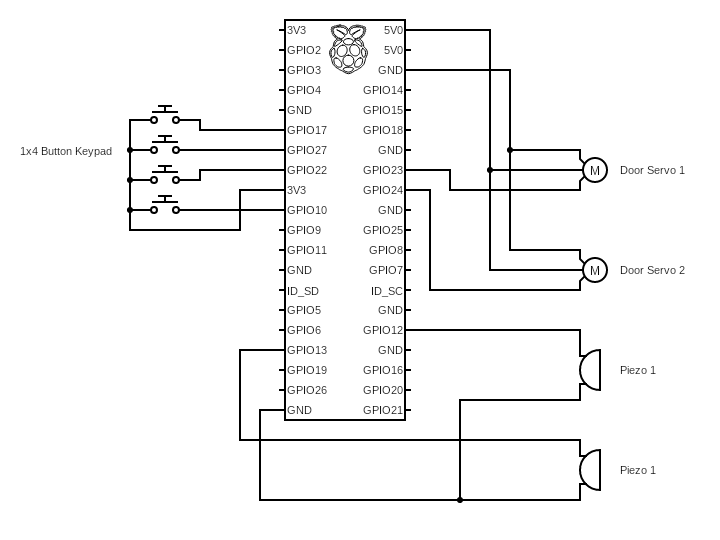
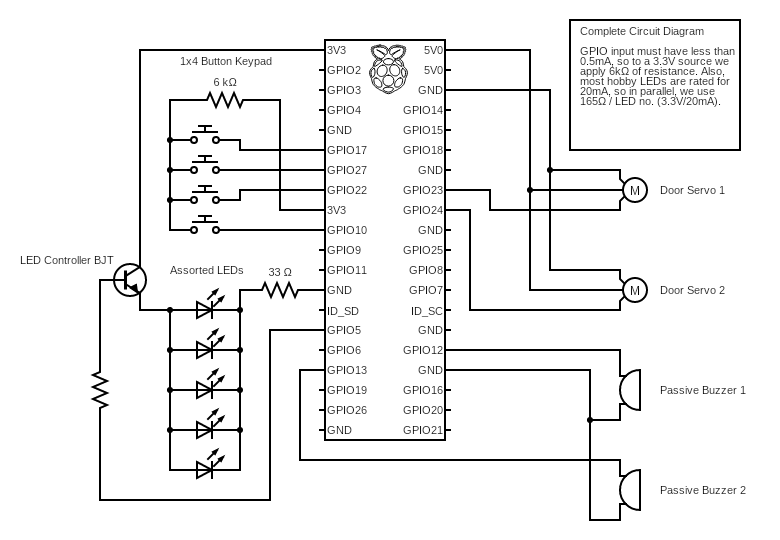
updated CD

diff --git a/README.md b/README.md
@@ -9,6 +9,11 @@ Press `Ctrl+D` to reset, and `Ctrl+C` to exit.
 - 1 x 1x4 keypad, such as the [Adafruit 1332](https://www.adafruit.com/product/1332)
 - 2 x 5v micro servo
 - 2 x Passive buzzer (piezo)
+- 5 x LED (20mA)
+- Resistors to make up the following resistances:
+  - 6kΩ
+  - 1kΩ
+  - 33Ω
 
 ## Circuit Diagram
 ![Circuit Diagram](circuit.png)
@@ -19,7 +24,7 @@ Configurable in `config.py`, here are the default values:
 
 |             | |        HEADER | PIN | DIAGRAM         | |             |
 |:------------|-|--------------:|:---:|:----------------|-|------------:|
-|             | |         `3V3` |     | `5V`            | | servo power |
+| led power   | |         `3V3` |     | `5V`            | | servo power |
 |             | |     `2 (SDA)` |     | `5V`            | |             |
 |             | |     `3 (SCL)` |     | `GND`           | | servo gnd   |
 |             | |  `4 (GPCLK0)` |     | `14 (TXD)`      | |             |
@@ -31,14 +36,14 @@ Configurable in `config.py`, here are the default values:
 | combo btn 4 | |   `10 (MOSI)` |     | `GND`           | |             |
 |             | |    `9 (MISO)` |     | `25`            | |             |
 |             | |   `11 (SCLK)` |     | `8 (CE0)`       | |             |
-|             | |         `GND` |     | `7 (CE1)`       | |             |
+| led gnd     | |         `GND` |     | `7 (CE1)`       | |             |
 |             | |   `0 (ID_SD)` |     | `1 (ID_SC)`     | |             |
-|             | |           `5` |     | `GND`           | |             |
-|             | |           `6` |     | `12 (PWM0)`     | | piezo 1     |
-| piezo 2     | |   `13 (PWM1)` |     | `GND`           | |             |
+| led control | |           `5` |     | `GND`           | |             |
+|             | |           `6` |     | `12 (PWM0)`     | | buzzer 1    |
+| buzzer 2    | |   `13 (PWM1)` |     | `GND`           | | buzzer gnd  |
 |             | | `19 (PCM_FS)` |     | `16`            | |             |
 |             | |          `26` |     | `20 (PCM_DIN)`  | |             |
-| piezo gnd   | |         `GND` |     | `21 (PCM_DOUT)` | |             |
+|             | |         `GND` |     | `21 (PCM_DOUT)` | |             |
 
 ![RPi Pinout Diagram](https://www.raspberrypi.com/documentation/computers/images/GPIO-Pinout-Diagram-2.png)
 
